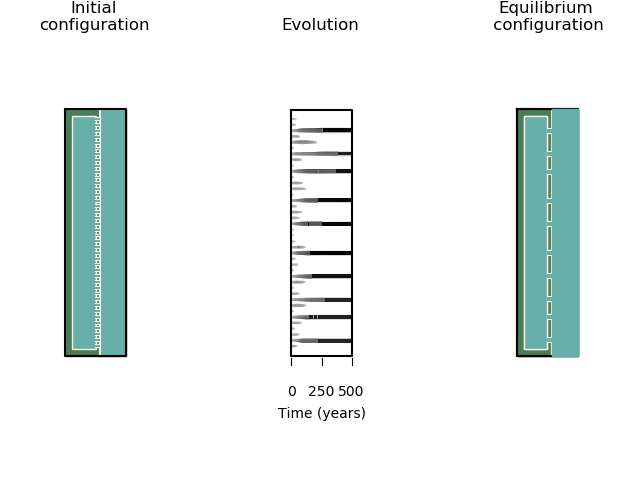
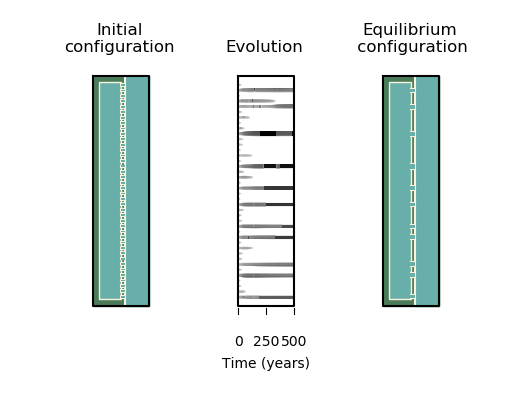
Pics

diff --git a/src/pyrectbcm/plots.py b/src/pyrectbcm/plots.py
@@ -1,7 +1,7 @@
 import numpy as np
 from math import ceil
 import matplotlib.pyplot as plt
-from matplotlib import cm, gridspec, patches
+from matplotlib import cm, gridspec, patches, rcParams
 from matplotlib.collections import PatchCollection
 from mpl_toolkits.mplot3d import Axes3D, art3d
 
@@ -114,6 +114,7 @@ def amplitude_plot(Input, ax=None):
     ax.plot(
         (xmin, xmin, xmax, xmax, xmin), (ymin, ymax, ymax, ymin, ymin), 1, color="k"
     )
+
     if pf:
         plt.show(block=False)
     return True, ax
@@ -156,13 +157,10 @@ def evolution_plot(Input, ax=None):
         pf = 1
 
     ax.plot_surface(
-        x / 1e3, y, iw2, cmap=cm.gray_r, rcount=iw2.shape[0], ccount=iw2.shape[1]
+        x / 1e3, y, iw2, cmap=cm.gray_r, rcount=iw2.shape[0]/2, ccount=iw2.shape[1]
     )
 
-    # ax.view_init(elev = 90, azim = 0)
-    ax.set_xlim([-0.3 * Basin.length / 1e3, (Basin.width + 0.3 * Basin.length) / 1e3])
-    ax.set_ylim([0, iw.shape[0] * Pars.dt])
-    ax.set_zlim([0, 1e4])
+
     ax.xaxis.set_visible(False)
     ax.zaxis.set_visible(False)
     ax.set_xticks([])
@@ -173,16 +171,25 @@ def evolution_plot(Input, ax=None):
     ax.xaxis.line.set_color((1.0, 1.0, 1.0, 0.0))
     ax.yaxis.line.set_color((1.0, 1.0, 1.0, 0.0))
     ax.zaxis.line.set_color((1.0, 1.0, 1.0, 0.0))
-    xmin, xmax = ax.get_xlim()
-    ymin, ymax = ax.get_ylim()
 
+
+    xmin = -0.3*Basin.length/1e3
+    xmax = (Basin.width + 0.3 * Basin.length) / 1e3
+    ymin = 0
+    ymax = iw.shape[0] * Pars.dt
+    zmin = 0
+    zmax = 1e4
     ax.plot(
         (xmin, xmin, xmax, xmax, xmin), (ymin, ymax, ymax, ymin, ymin), 1, color="k"
     )
+    ax.set_xlim3d([xmin, xmax])
+    ax.set_ylim3d([ymin, ymax])
+    ax.set_zlim3d([zmin, zmax])
     ax.grid(False)
     ax.set_ylabel("Time (years)")
+
     if pf:
-        plt.show(block = False)
+        plt.show(block=False)
     return True, ax
 
 
@@ -212,9 +219,7 @@ def geometry_plot(Input, t, ax=None):
         fig = plt.figure()
         ax = Axes3D(fig)
         pf = 1
-    ax.set_xlim(dims[2], dims[3])
-    ax.set_ylim(dims[0], dims[1])
-    ax.set_zlim(0, 1e2)  # large enough to not see stacking effects of different layers
+
     cl = np.array([74, 124, 89]) / 256
     cs = np.array([104, 176, 171]) / 256
     cb = cs
@@ -264,7 +269,7 @@ def geometry_plot(Input, t, ax=None):
                 facecolor=cs,
             )
             ax.add_patch(inlet_)
-            art3d.pathpatch_2d_to_3d(inlet_, z=0.2)
+            art3d.pathpatch_2d_to_3d(inlet_, z=0.05)
             ax.plot(
                 (xi, xi),
                 (dims[1] / 2, dims[1] / 2 + Inlets.lengths[inlet] / 1e3),
@@ -272,15 +277,12 @@ def geometry_plot(Input, t, ax=None):
                 color=cc,
             )
             ax.plot(
-                (
-                    xi + Inlets.wit[t, inlet] / 1e3,
-                    xi + Inlets.wit[t, inlet] / 1e3,
-                ),
+                (xi + Inlets.wit[t, inlet] / 1e3, xi + Inlets.wit[t, inlet] / 1e3),
                 (dims[1] / 2, dims[1] / 2 + Inlets.lengths[inlet] / 1e3),
                 0.2,
                 color=cc,
             )
-
+    # Set plot options
     ax.axis("off")
     ax.plot(
         (dims[2], dims[2], dims[3], dims[3], dims[2]),
@@ -291,9 +293,13 @@ def geometry_plot(Input, t, ax=None):
     ax.grid(False)
     ax.set_aspect(((dims[3] - dims[2]) / (dims[1] - dims[0])) ** 2)
     ax.apply_aspect()
-    # print(ax.get_aspect())
+    ax.set_xlim3d(dims[2], dims[3])
+    ax.set_ylim3d(dims[0], dims[1])
+    ax.set_zlim3d(0, 1e2)  # large enough to not see stacking effects of different layers
+
+
     if pf:
-        plt.show(block = False)
+        plt.show(block=False)
 
     return True, ax
 
@@ -317,27 +323,42 @@ def evolution_plot_3p(Input, orientation):
         ax1 = fig.add_subplot(gs[0, 0], projection="3d")
         ax1.view_init(elev=90, azim=0)
         ax1.set_xlabel("along-shore")
-        ax1.set_title("Initial\nconfiguration")
-        ax2 = fig.add_subplot(gs[0, 1:2], projection="3d")
+        ax1.set_title("Initial\nconfiguration", y = 0.875)
+        ax1.set_anchor((0, 0))
+
+
+        ax2 = fig.add_subplot(gs[0, 1], projection="3d")
         ax2.view_init(elev=90, azim=0)
-        ax2.set_title("Evolution")
+        ax2.set_title("Evolution", y = 0.875)
+        ax2.set_anchor((1/3, 0))
+
         ax3 = fig.add_subplot(gs[0, 2], projection="3d")
-        geometry_plot(Input, Input.Inlets.wit.shape[0] - 1, ax=ax3)
         ax3.view_init(elev=90, azim=0)
-        ax3.set_title("Equilibrium\n configuration")
+        ax3.set_title("Equilibrium\n configuration", y = 0.875)
+        ax3.set_anchor((2/3, 0))
+
     elif orientation == "v":
         gs = gridspec.GridSpec(3, 1)
+
         ax1 = fig.add_subplot(gs[2, 0], projection="3d")
         ax1.view_init(elev=90, azim=-90)
-        ax2 = fig.add_subplot(gs[1:2, 0], projection="3d")
+        ax1.set_title("Initial\nconfiguration")
+
+        ax2 = fig.add_subplot(gs[1, 0], projection="3d")
         ax2.view_init(elev=90, azim=-90)
+        ax2.set_title("Evolution")
+
         ax3 = fig.add_subplot(gs[0, 0], projection="3d")
         ax3.view_init(elev=90, azim=-90)
+        ax3.set_title("Equilibrium\n configuration")
+
     else:
         raise NameError("No/wrong orientation specified. Choose either 'h' or 'v'.")
 
-    geometry_plot(Input, 0, ax=ax1)
+    ax1 = geometry_plot(Input, 0, ax=ax1)[1]
     ax2 = evolution_plot(Input, ax=ax2)[1]
+    ax3 = geometry_plot(Input, Input.Inlets.wit.shape[0] - 1, ax=ax3)[1]
+
     ax2.set_aspect(
         (
             (ax1.get_xlim()[1] - ax1.get_xlim()[0])
@@ -346,12 +367,9 @@ def evolution_plot_3p(Input, orientation):
         ** 2
         * (ax1.get_ylim()[1] / ax2.get_ylim()[1])
     )
-    # ax2.set_xlim(
-    #     (-0.3 * Basin.length) / 1e3,
-    #     (Basin.width + 0.3 * Basin.length) / 1e3,
-    # )
-    geometry_plot(Input, Input.Inlets.wit.shape[0] - 1, ax=ax3)
-
+    # gs.tight_layout(fig, pad = 0.5, h_pad = 0, w_pad = 0)
+    # fig.tight_layout()
     fig.show()
-    fig.subplots_adjust(left=0, right=1, bottom=0, top=1)
+    # fig.subplots_adjust(left=0, right=1, bottom=0, top=1)
+
     return True, fig

diff --git a/src/pyrectbcm/rectangular_input_generator.py b/src/pyrectbcm/rectangular_input_generator.py
@@ -59,12 +59,17 @@ class ModelData:
     def __init__(self, location):
         if location == "testkees":
             from pyrectbcm.input_locations import testkees
+
             data = testkees
+
         elif location == "testlocation":
             from pyrectbcm.input_locations import testlocation
+
             data = testlocation
+
         else:
             raise NameError("location unknown")
+
         self.Basin = Basin(data)
         self.Ocean = Ocean(data)
         self.Inlets = Inlets(data, self.Basin, self.Ocean)

diff --git a/src/pyrectbcm/__main__.py b/src/pyrectbcm/__main__.py
@@ -7,12 +7,12 @@ from pyrectbcm.rectangular_model import rec_model
 from pyrectbcm.plots import evolution_plot_3p
 
 
-def main(location = None):
+def main(location=None):
     if location is None:
         location = "testkees"
     start_time = time.time()
     Input = ModelData(location)
-    Output = rec_model(Input, silent = 1)
+    Output = rec_model(Input, silent=1)
     print("%s seconds" % (time.time() - start_time))
 
     # Output.amplitude_plot()

diff --git a/README.rst b/README.rst
@@ -8,10 +8,11 @@ PyRectBCM
     :target: https://travis-ci.org/Kreef/PyRectBCM
 .. image:: https://coveralls.io/repos/github/Kreef/PyRectBCM/badge.svg?branch=master
     :target: https://coveralls.io/github/Kreef/PyRectBCM?branch=master
-.. image:: https://img.shields.io/badge/License-GPL%20v3-blue.svg
-    :target: https://www.gnu.org/licenses/gpl-3.0
 .. image:: https://img.shields.io/badge/code%20style-black-000000.svg
     :target: https://github.com/ambv/black
+.. image:: https://img.shields.io/badge/License-GPL%20v3-blue.svg
+    :target: https://www.gnu.org/licenses/gpl-3.0
+
 
 Simulates the evolution of barrier coasts.
 
